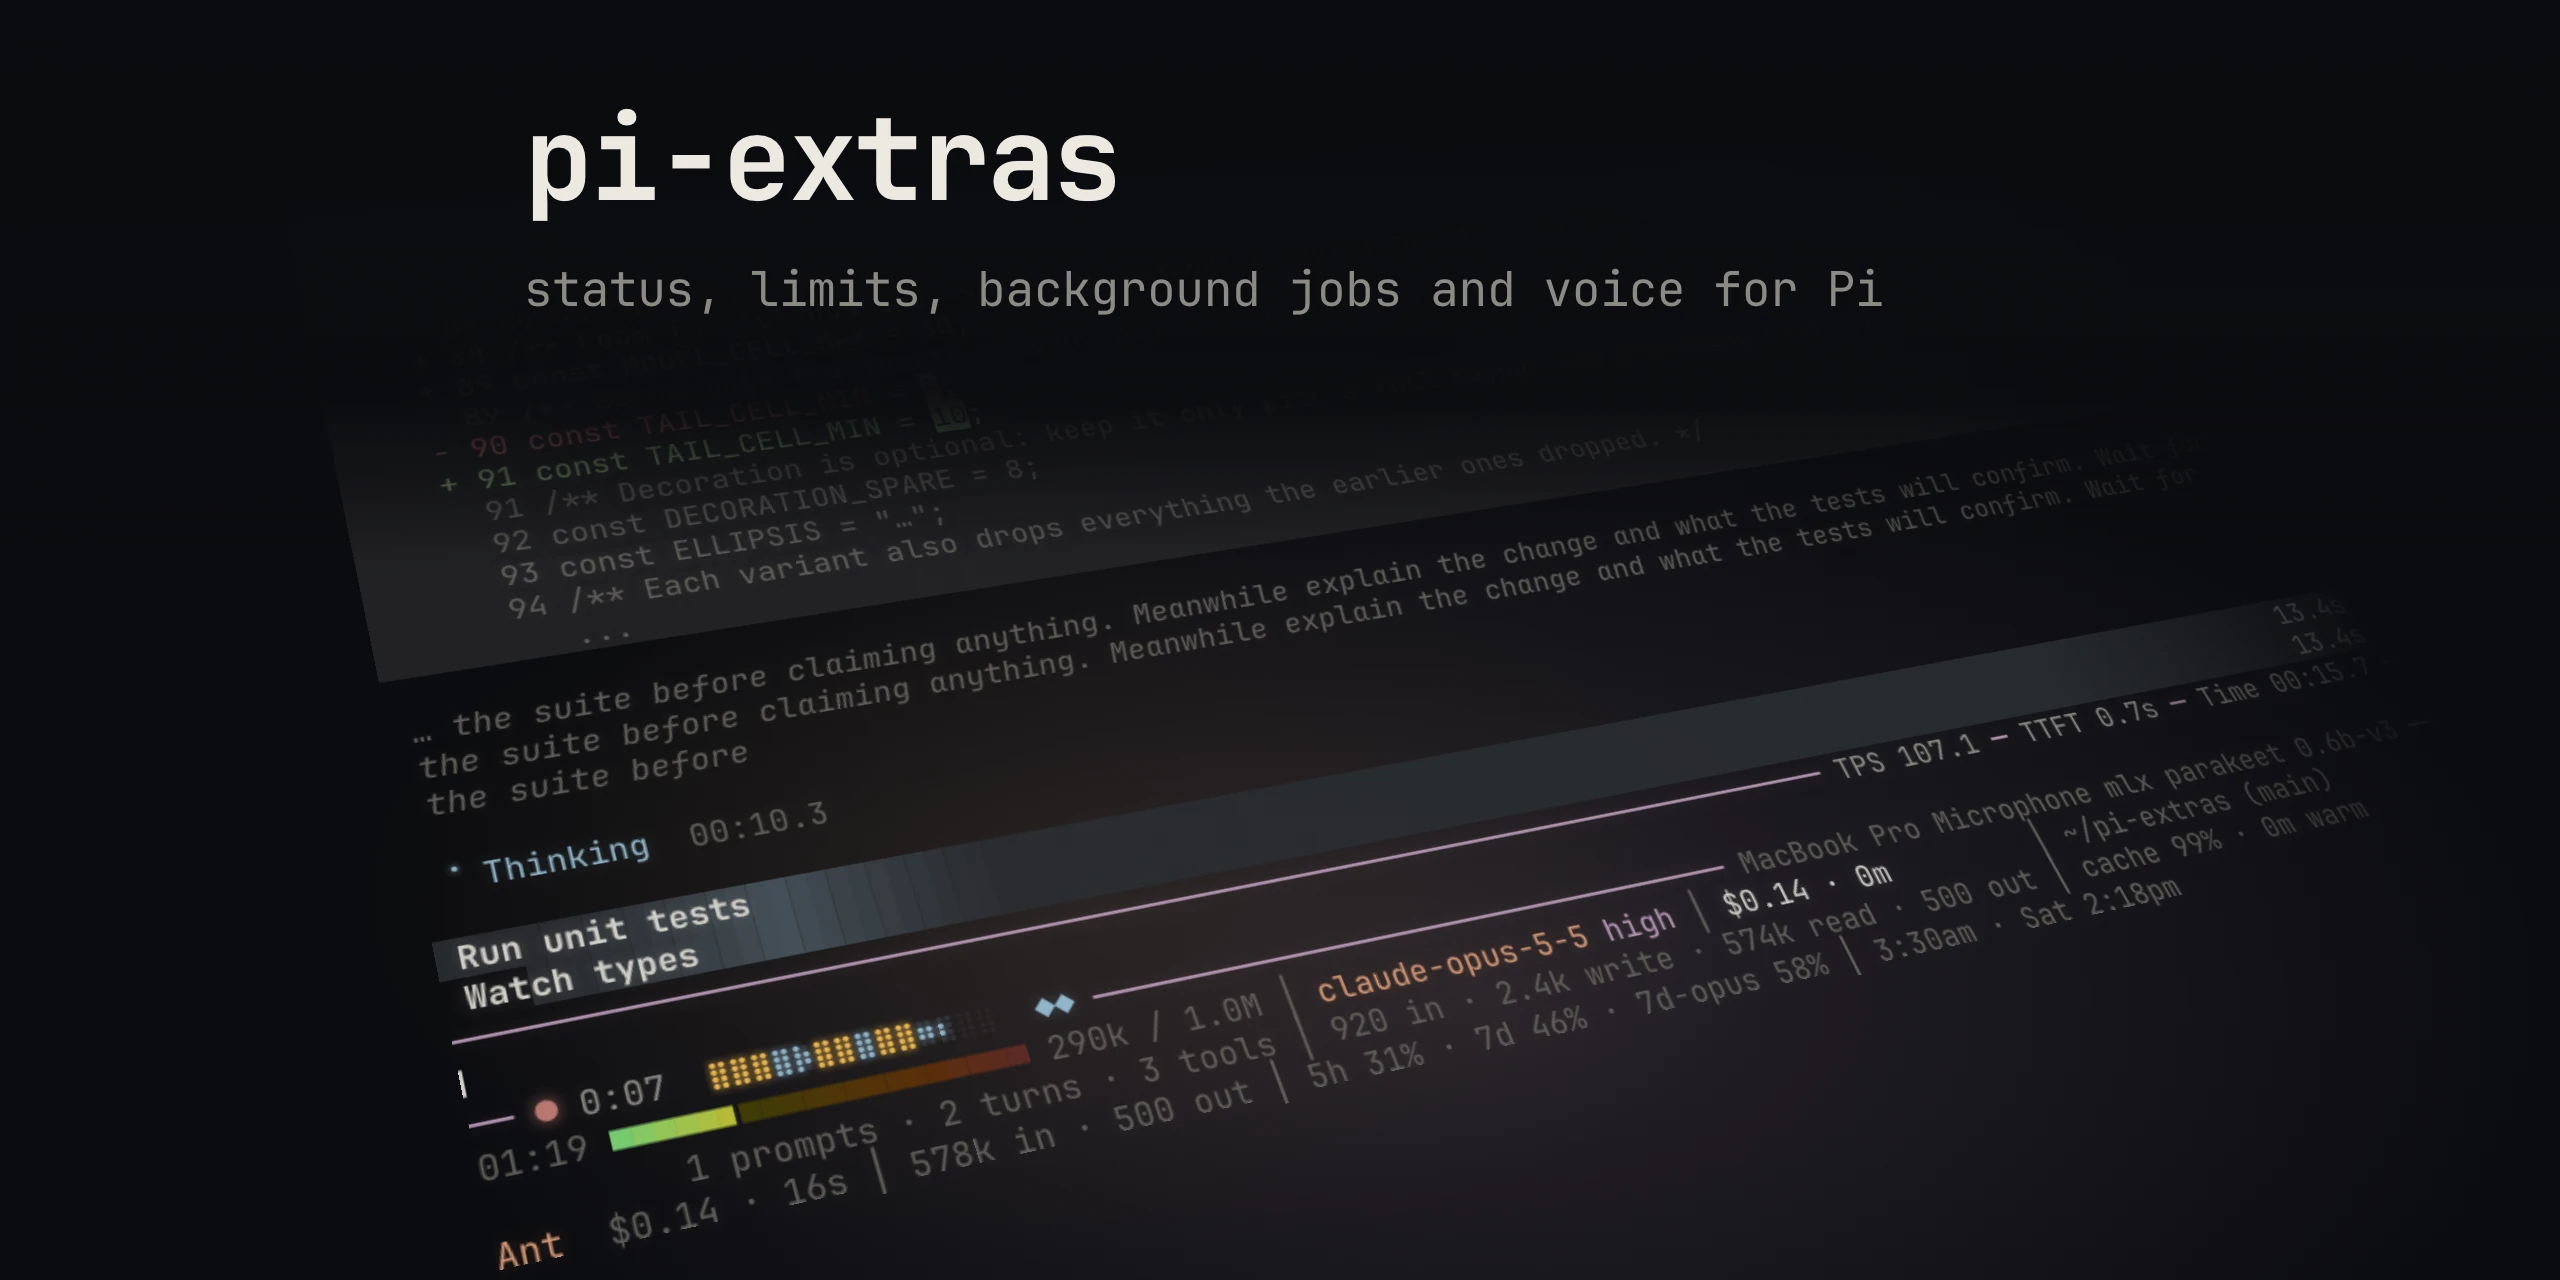
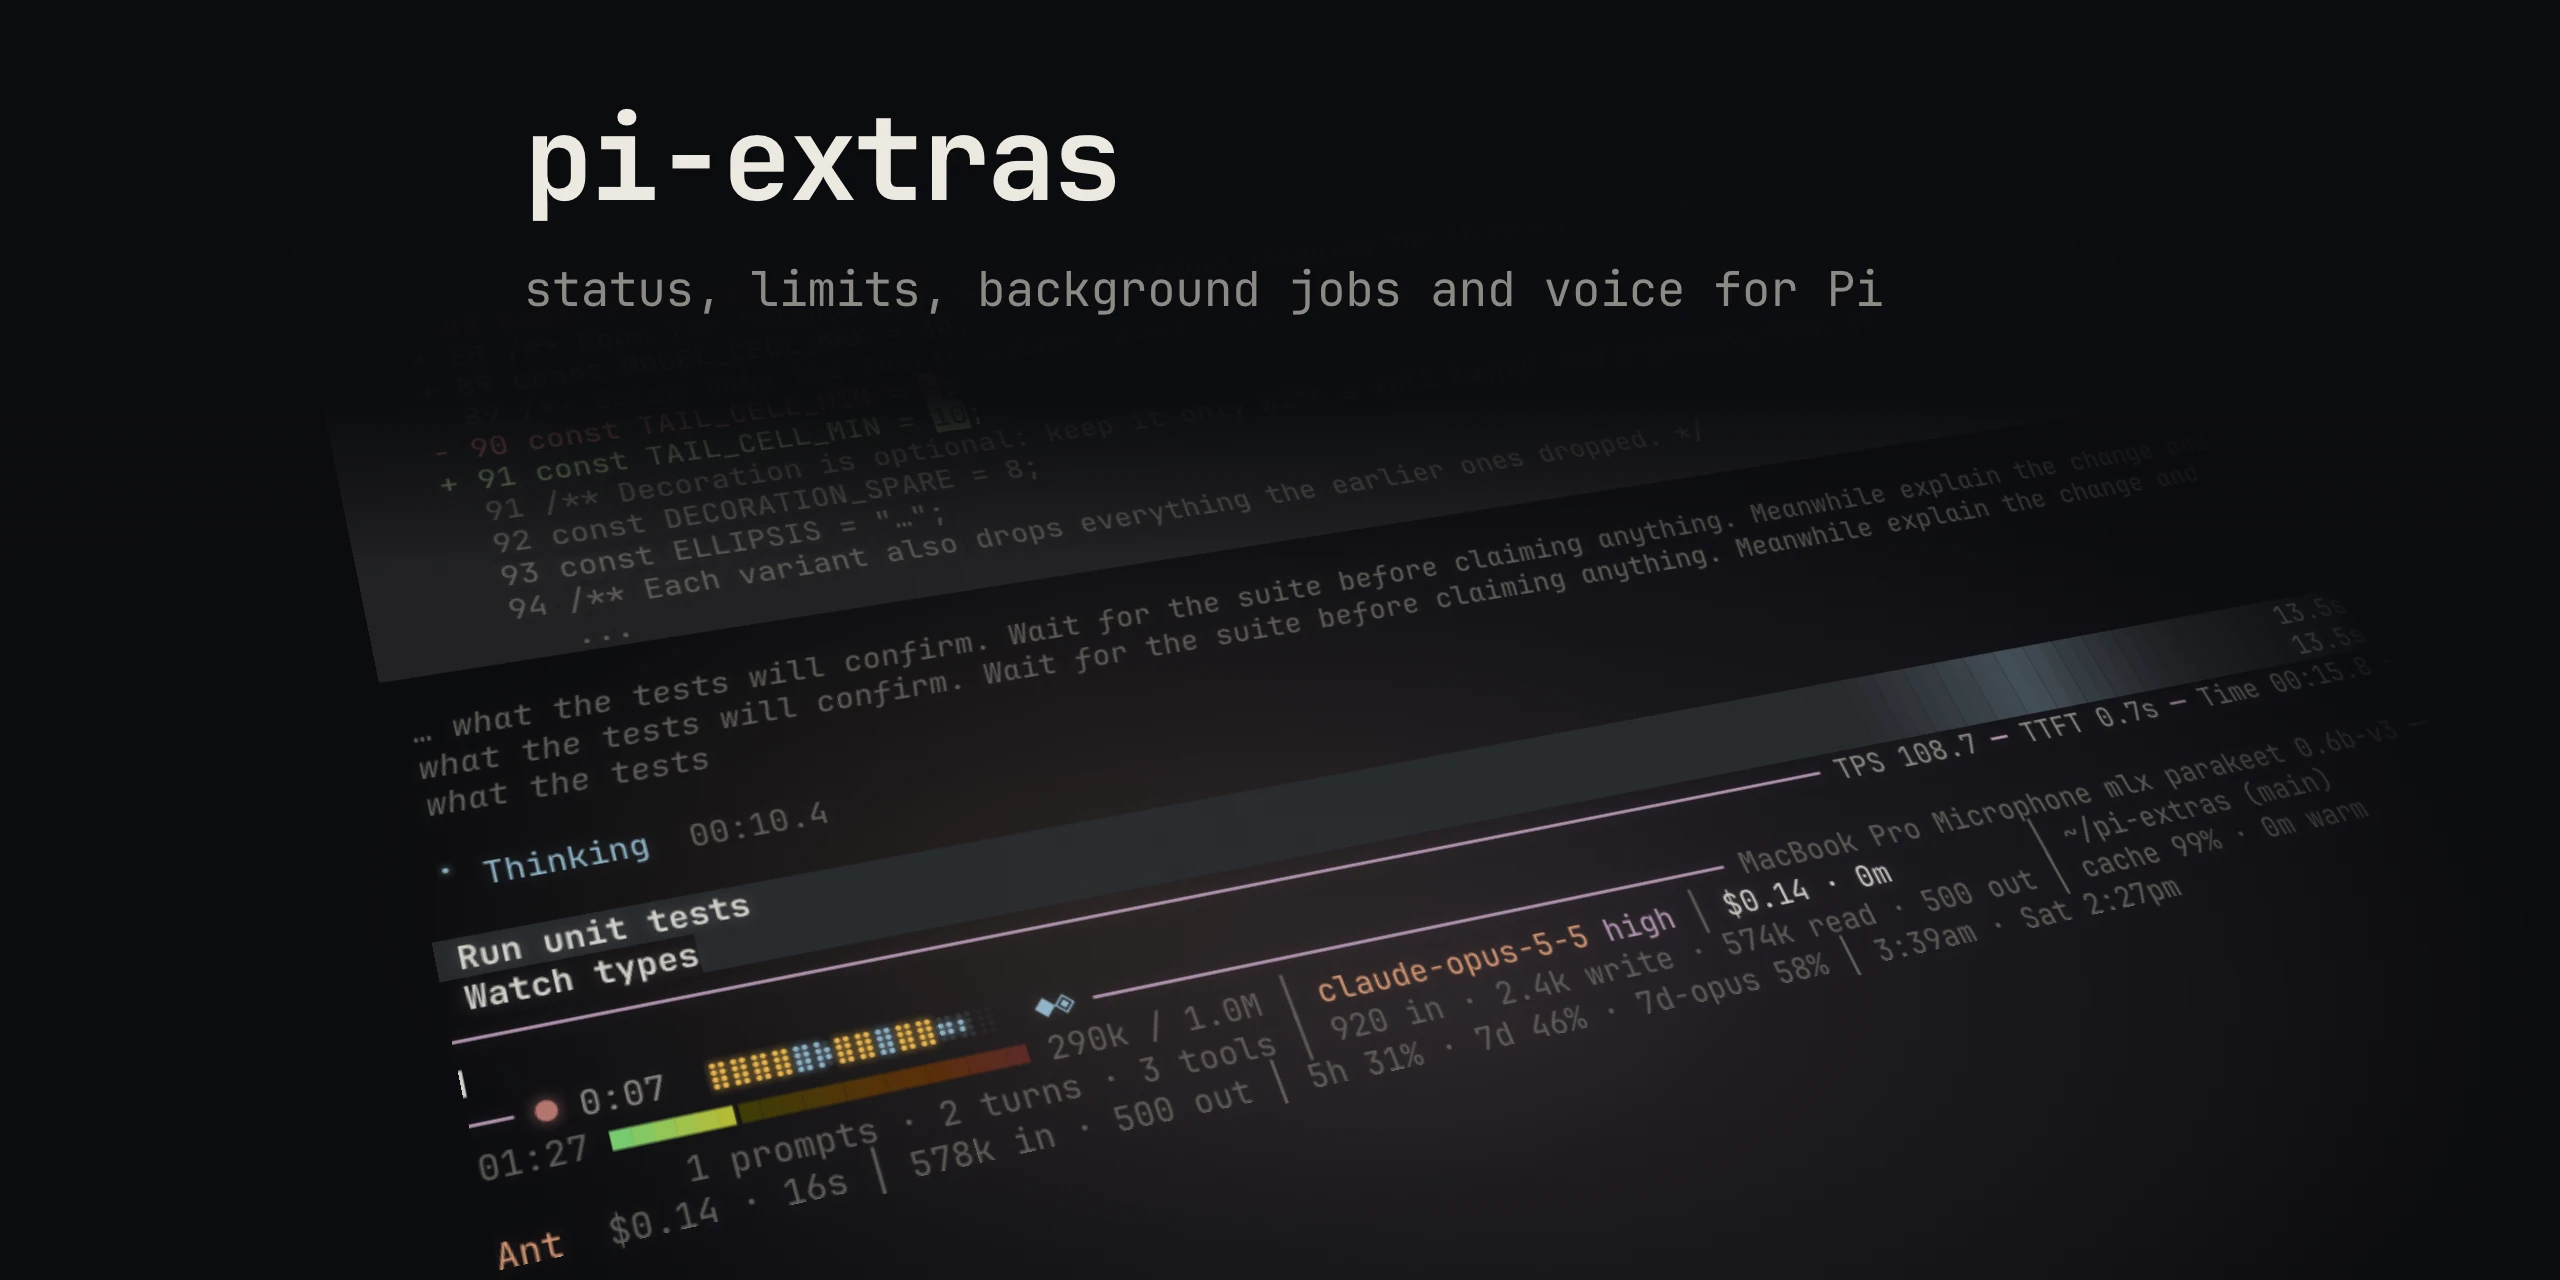
chore: release 0.15.1

diff --git a/CHANGELOG.md b/CHANGELOG.md
@@ -2,6 +2,14 @@
 
 Versioning rules are in [CONTRIBUTING.md](CONTRIBUTING.md#versioning).
 
+## 0.15.1 - 2026-10-01
+
+### Fixed
+
+- Failure-log lines (for example `rate-limit-recovery.log`) are written before
+  the call returns, so a line logged during shutdown is no longer lost. This
+  also ends an intermittent test failure on CI.
+
 ## 0.15.0 - 2026-10-01
 
 ### Added
